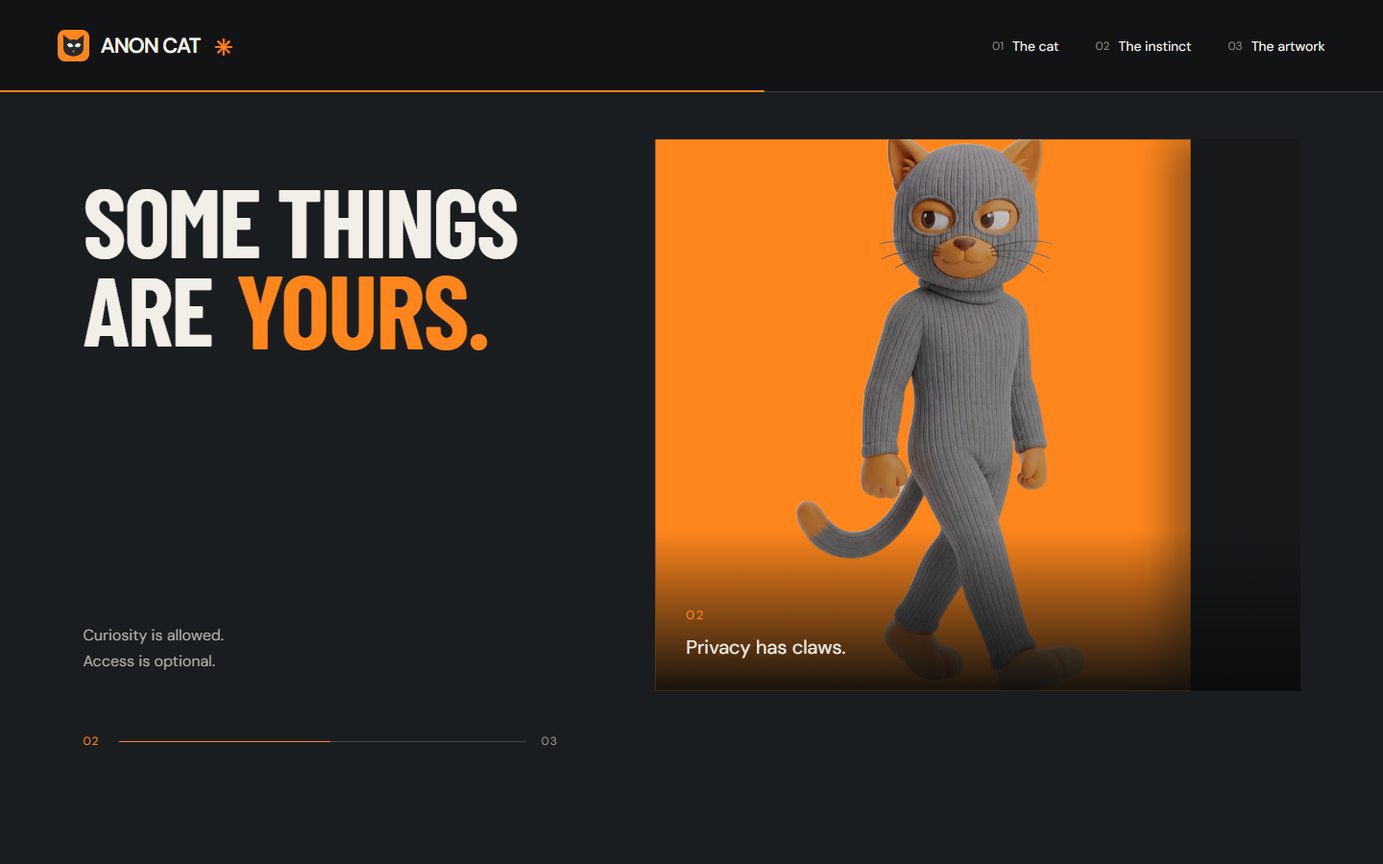
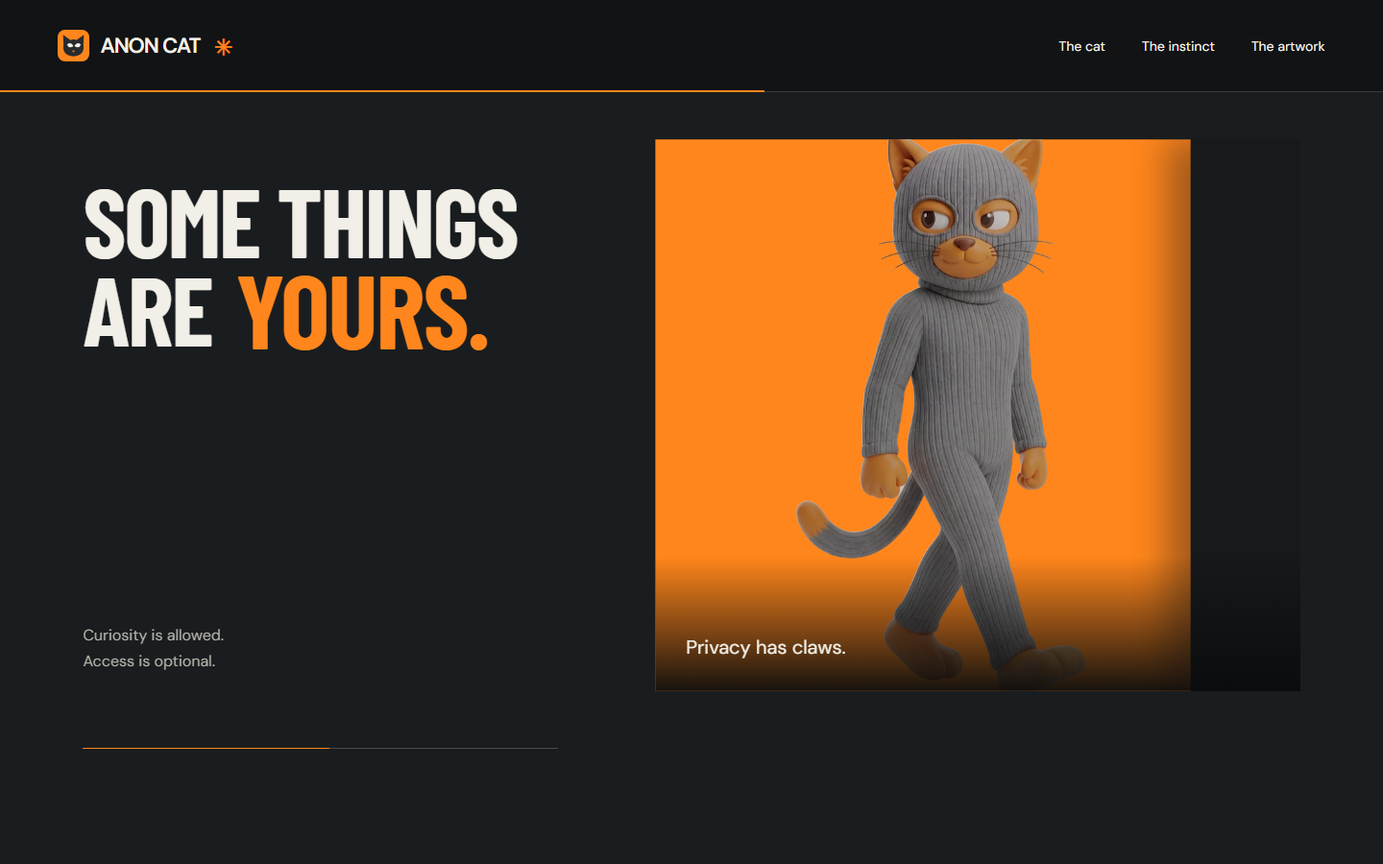
Update Site source

Changed region(s): [[0.4688, 0.6222, 0.6875, 0.7156], [0.6875, 0.6222, 0.875, 0.7156], [0.7188, 0.0311, 0.875, 0.0622]]

diff --git a/src/app/globals.css b/src/app/globals.css
@@ -10,8 +10,8 @@
 .hero-scene .peek-cat{left:47%;top:32%;width:24%;height:36%;z-index:2}
 @media(max-width:700px){.hero-scene .peek-cat{left:48%;top:32%;width:25%;height:35%}}
 .section-top{display:flex;justify-content:space-between;align-items:center;border-bottom:1px solid currentColor;padding-bottom:24px;opacity:.8}.section-top .eyebrow{margin:0;font-size:11px;letter-spacing:1.7px}.tiny-label{font-size:10px;letter-spacing:1.3px}.display-title{font-family:var(--display);font-size:clamp(64px,6.3vw,108px);line-height:.91;letter-spacing:-.02em;font-weight:600;margin:0}.display-title em{font-style:normal;color:var(--orange)}.section-description{font-size:17px;line-height:1.6;color:#676761;margin:24px 0 30px}.file-section{background:var(--paper);color:var(--ink);padding:54px 6% 94px}.file-grid{display:grid;grid-template-columns:1fr 1fr;gap:8%;padding-top:66px;align-items:center}.file-art{position:relative;min-height:660px;display:flex;align-items:flex-end;justify-content:center;isolation:isolate}.file-orange-disc{position:absolute;width:88%;aspect-ratio:1;border-radius:50%;background:var(--orange);z-index:-1;left:3%;top:15%;}.seated-cat{position:relative;width:100%;height:590px;object-fit:contain;object-position:bottom}.file-corner{position:absolute;top:0;left:0;font-size:10px;letter-spacing:1.6px}.art-footnote{position:absolute;bottom:-30px;left:0;font-size:12px;color:#72726b}.character-file{border-top:1px solid #bcbab2;border-bottom:1px solid #bcbab2;margin-bottom:28px}.file-header{padding:17px 0;display:flex;align-items:center;justify-content:space-between;font-size:10px;letter-spacing:1.1px}.file-stamp{border:1px solid #9f9d92;padding:5px 7px;font-size:9px;transform:rotate(-4deg)}dl{margin:0}.file-row{display:grid;grid-template-columns:32% 68%;padding:17px 0;border-top:1px solid #d0cdc4;gap:12px;font-size:14px}.file-row dt{color:#77766d}.file-row dd{margin:0;position:relative;width:max-content;max-width:100%}.file-value{transition:opacity .32s}.redaction-bar{position:absolute;inset:-2px -5px;background:var(--ink);transform-origin:left;transform:scaleX(0);transition:transform .4s cubic-bezier(.2,.8,.2,1)}.is-redacted .redaction-bar{transform:scaleX(1)}.is-redacted .file-value{opacity:0}.file-row:nth-child(2) .redaction-bar{transition-delay:.04s}.file-row:nth-child(3) .redaction-bar{transition-delay:.08s}.file-row:nth-child(4) .redaction-bar{transition-delay:.12s}.file-row:nth-child(5) .redaction-bar{transition-delay:.16s}.file-bottom{display:flex;justify-content:space-between;align-items:center;padding:13px 0;border-top:1px solid #d0cdc4;font-size:9px;letter-spacing:1.2px;color:#75746c}.file-bottom>span:last-child{font-size:22px;color:var(--orange)}.dark-button{background:var(--ink);color:var(--paper);min-height:50px}.dark-button:hover{background:#36383a}
-.ethos-section{padding:55px 6% 92px;background:#1a1d1f}.ethos-section .section-top{color:#9e9f98}.ethos-heading{display:flex;justify-content:space-between;align-items:flex-end;padding:64px 0 50px}.ethos-heading>p{font-size:17px;line-height:1.65;color:#b2b2aa;max-width:270px;margin-bottom:0}.ethos-sequence{display:grid;grid-template-columns:1fr 1fr 1fr;gap:22px;align-items:start}.ethos-frame{margin:0;position:relative;isolation:isolate;height:450px;overflow:hidden;background:#282b2e}.ethos-frame img{width:100%;height:100%;object-fit:cover}.ethos-frame figcaption{position:absolute;z-index:3;bottom:0;left:0;right:0;padding:55px 20px 22px;background:linear-gradient(transparent,rgba(10,12,13,.95));display:flex;flex-direction:column;gap:10px;font-size:15px;line-height:1.4;color:var(--paper)}.ethos-frame figcaption span{color:var(--orange);font-size:11px;letter-spacing:2px}.panel-frame{height:380px;margin-top:65px}.panel-frame img{object-position:50% 50%;filter:brightness(.9)}.silhouette-frame{background:var(--orange);height:445px}.silhouette-frame img{object-fit:contain;object-position:65% 100%;width:120%;max-width:none;filter:brightness(.65)}.silhouette-occluder{position:absolute;inset:0 0 0 60%;background:#17191b;z-index:2;box-shadow:-12px 0 18px #17191b40}.relaxed-frame{height:380px;margin-top:65px}.relaxed-frame img{filter:brightness(.8)}.monero-editorial{border-top:1px solid var(--line);margin-top:66px;padding-top:42px;display:grid;grid-template-columns:1fr 2fr;gap:10%}.monero-editorial .eyebrow{align-self:start;font-size:10px;letter-spacing:1px;line-height:1.6}.monero-editorial>div{max-width:660px}.monero-editorial>div>p:first-child{font-size:26px;line-height:1.3;margin:0 0 22px;letter-spacing:-.6px}.monero-explanation{font-size:15px;line-height:1.75;color:#aeb0a8;margin:0 0 24px}.text-link{font-size:14px;border-bottom:1px solid #74746c;padding:0 0 7px;display:inline-flex;gap:35px;align-items:center}.text-link:hover{color:var(--orange);border-color:var(--orange)}.external-label{font-size:9px;letter-spacing:1.2px;color:#92958d}
-.artwork-section{background:var(--orange);color:var(--ink);padding:54px 6% 78px}.artwork-grid{display:grid;grid-template-columns:1fr 1fr;gap:8%;padding-top:64px;align-items:center}.artwork-copy .display-title{font-size:clamp(60px,5.2vw,100px)}.artwork-copy .display-title>span{color:#713e15}.artwork-copy .section-description{color:#633b1e}.portrait-options{margin:32px 0 30px;max-width:400px;border-bottom:1px solid #aa5c1c}.portrait-options button{display:flex;align-items:center;gap:18px;min-height:57px;padding:12px 0;border:0;border-top:1px solid #aa5c1c;background:transparent;width:100%;text-align:left;font-size:16px;color:var(--ink)}.portrait-options button[aria-pressed=true]{font-weight:600}.portrait-number{font-size:10px;color:#783d14;letter-spacing:1px}.portrait-indicator{margin-left:auto;font-size:13px}.download-button{background:var(--ink);color:var(--paper);gap:40px}.download-button:hover{background:#343638}.download-note{font-size:10px;letter-spacing:1px;color:#693c1b;margin-top:17px}.selected-portrait{margin:0;transform:rotate(2deg)}.portrait-image{border:9px solid var(--paper);box-shadow:15px 20px 0 #743e1525;aspect-ratio:1;overflow:hidden}.portrait-image img{width:100%;height:100%;object-fit:cover}.selected-portrait figcaption{display:flex;justify-content:space-between;gap:20px;padding-top:24px;font-size:10px;letter-spacing:1px}.selected-portrait figcaption>span:last-child{font-size:12px;letter-spacing:0;text-align:right;max-width:205px}.artwork-section button:focus-visible,.artwork-section a:focus-visible{outline-color:var(--ink)}
+.ethos-section{padding:55px 6% 92px;background:#1a1d1f}.ethos-section .section-top{color:#9e9f98}.ethos-heading{display:flex;justify-content:space-between;align-items:flex-end;padding:64px 0 50px}.ethos-heading>p{font-size:17px;line-height:1.65;color:#b2b2aa;max-width:270px;margin-bottom:0}.ethos-sequence{display:grid;grid-template-columns:1fr 1fr 1fr;gap:22px;align-items:start}.ethos-frame{margin:0;position:relative;isolation:isolate;height:450px;overflow:hidden;background:#282b2e}.ethos-frame img{width:100%;height:100%;object-fit:cover}.ethos-frame figcaption{position:absolute;z-index:3;bottom:0;left:0;right:0;padding:55px 20px 22px;background:linear-gradient(transparent,rgba(10,12,13,.95));display:flex;flex-direction:column;gap:10px;font-size:15px;line-height:1.4;color:var(--paper)}.panel-frame{height:380px;margin-top:65px}.panel-frame img{object-position:50% 50%;filter:brightness(.9)}.silhouette-frame{background:var(--orange);height:445px}.silhouette-frame img{object-fit:contain;object-position:65% 100%;width:120%;max-width:none;filter:brightness(.65)}.silhouette-occluder{position:absolute;inset:0 0 0 60%;background:#17191b;z-index:2;box-shadow:-12px 0 18px #17191b40}.relaxed-frame{height:380px;margin-top:65px}.relaxed-frame img{filter:brightness(.8)}.monero-editorial{border-top:1px solid var(--line);margin-top:66px;padding-top:42px;display:grid;grid-template-columns:1fr 2fr;gap:10%}.monero-editorial .eyebrow{align-self:start;font-size:10px;letter-spacing:1px;line-height:1.6}.monero-editorial>div{max-width:660px}.monero-editorial>div>p:first-child{font-size:26px;line-height:1.3;margin:0 0 22px;letter-spacing:-.6px}.monero-explanation{font-size:15px;line-height:1.75;color:#aeb0a8;margin:0 0 24px}.text-link{font-size:14px;border-bottom:1px solid #74746c;padding:0 0 7px;display:inline-flex;gap:35px;align-items:center}.text-link:hover{color:var(--orange);border-color:var(--orange)}.external-label{font-size:9px;letter-spacing:1.2px;color:#92958d}
+.artwork-section{background:var(--orange);color:var(--ink);padding:54px 6% 78px}.artwork-grid{display:grid;grid-template-columns:1fr 1fr;gap:8%;padding-top:64px;align-items:center}.artwork-copy .display-title{font-size:clamp(60px,5.2vw,100px)}.artwork-copy .display-title>span{color:#713e15}.artwork-copy .section-description{color:#633b1e}.portrait-options{margin:32px 0 30px;max-width:400px;border-bottom:1px solid #aa5c1c}.portrait-options button{display:flex;align-items:center;gap:18px;min-height:57px;padding:12px 0;border:0;border-top:1px solid #aa5c1c;background:transparent;width:100%;text-align:left;font-size:16px;color:var(--ink)}.portrait-options button[aria-pressed=true]{font-weight:600}.portrait-indicator{margin-left:auto;font-size:13px}.download-button{background:var(--ink);color:var(--paper);gap:40px}.download-button:hover{background:#343638}.download-note{font-size:10px;letter-spacing:1px;color:#693c1b;margin-top:17px}.selected-portrait{margin:0;transform:rotate(2deg)}.portrait-image{border:9px solid var(--paper);box-shadow:15px 20px 0 #743e1525;aspect-ratio:1;overflow:hidden}.portrait-image img{width:100%;height:100%;object-fit:cover}.selected-portrait figcaption{display:flex;justify-content:space-between;gap:20px;padding-top:24px;font-size:10px;letter-spacing:1px}.selected-portrait figcaption>span:last-child{font-size:12px;letter-spacing:0;text-align:right;max-width:205px}.artwork-section button:focus-visible,.artwork-section a:focus-visible{outline-color:var(--ink)}
 .footer{padding:54px 6% 25px;background:var(--ink);position:relative;overflow:hidden}.footer-top{display:flex;align-items:center;justify-content:space-between;padding-bottom:48px;border-bottom:1px solid var(--line);position:relative;isolation:isolate}.footer-top>p{font-family:var(--display);font-size:72px;line-height:1;margin:0;padding-right:19%;letter-spacing:-.02em}.footer-top>p span{color:var(--orange)}.footer-cat{position:absolute;right:0;bottom:-4px;width:130px;height:155px;object-fit:contain;object-position:bottom;z-index:-1}.footer-bottom{display:flex;justify-content:space-between;align-items:center;padding-top:24px;color:#92948e;font-size:10px;gap:20px}.footer-links{display:flex;gap:25px;color:var(--paper);font-size:12px}.footer-links a:hover{color:var(--orange)}
 @media(min-width:1700px){.file-section,.ethos-section,.artwork-section,.footer{padding-left:8%;padding-right:8%}.file-art{height:780px}.seated-cat{height:720px}.ethos-frame{height:510px}.panel-frame,.relaxed-frame{height:450px}}
 @media(max-width:1000px){.display-title{font-size:64px}.file-grid{gap:5%}.file-art{min-height:510px}.seated-cat{height:480px}.file-row{font-size:12px;grid-template-columns:30% 70%;gap:8px}.ethos-frame{height:340px}.panel-frame,.relaxed-frame{height:290px;margin-top:40px}.ethos-frame figcaption{font-size:13px;padding:50px 13px 18px}.monero-editorial{gap:5%}.artwork-copy .display-title{font-size:56px}.footer-top>p{font-size:55px;padding-right:14%}.footer-cat{width:105px;height:130px}}

diff --git a/src/components/sections/ArtworkPack.tsx b/src/components/sections/ArtworkPack.tsx
@@ -29,9 +29,9 @@ export default function ArtworkPack(){
     const freeze=()=>context?.getTweens().forEach((tween:gsap.core.Tween)=>tween.pause());document.addEventListener('anon-cat:freeze',freeze);
     return()=>{context?.revert();document.removeEventListener('anon-cat:freeze',freeze);};
   },[selected]);
-  return <section ref={root} className="artwork-section" id="artwork" data-selection={portrait.id} aria-labelledby="artwork-heading"><div className="section-top"><span className="eyebrow">03 / THE ARTWORK</span><span className="tiny-label">TAKE THE CAT. LEAVE THE DETAILS.</span></div>
-    <div className="artwork-grid"><div className="artwork-copy"><h2 className="display-title" id="artwork-heading">RECOGNIZABLE.<br/><span>UNIDENTIFIED.</span></h2><p className="section-description">A face you can keep.<br/>A story you don’t get.</p><div className="portrait-options" role="group" aria-label="Choose a cat portrait">{site.portraits.map((p,i)=><button key={p.id} aria-pressed={selected===i} onClick={()=>setSelected(i)}><span className="portrait-number">0{i+1}</span>{p.label}<span className="portrait-indicator" aria-hidden="true">{selected===i?'●':'○'}</span></button>)}</div><a className="button orange-button download-button" href={portrait.src} download={`anon-cat-${portrait.id}.png`}>Download {portrait.label.toLowerCase()}<span aria-hidden="true">↓</span></a><p className="download-note">PNG / 1024 × 1024 / YOURS TO KEEP</p></div>
-      <figure className="selected-portrait"><div className="portrait-stage">{site.portraits.map((p,i)=><div className="portrait-print portrait-image" key={p.id} data-active={i===selected} aria-hidden={i!==selected}><DeferredImage src={p.src.replace('.png','.webp')} alt={i===selected?`ANON CAT ${p.label.toLowerCase()} portrait. ${p.description}`:''} width="1024" height="1024"/></div>)}</div><figcaption><span>{portrait.label.toUpperCase()} / 0{selected+1}</span><span>{portrait.description}</span></figcaption><span className="sr-only" role="status">{portrait.label} portrait selected.</span></figure>
+  return <section ref={root} className="artwork-section" id="artwork" data-selection={portrait.id} aria-labelledby="artwork-heading"><div className="section-top"><span className="eyebrow">THE ARTWORK</span><span className="tiny-label">TAKE THE CAT. LEAVE THE DETAILS.</span></div>
+    <div className="artwork-grid"><div className="artwork-copy"><h2 className="display-title" id="artwork-heading">RECOGNIZABLE.<br/><span>UNIDENTIFIED.</span></h2><p className="section-description">A face you can keep.<br/>A story you don’t get.</p><div className="portrait-options" role="group" aria-label="Choose a cat portrait">{site.portraits.map((p,i)=><button key={p.id} aria-pressed={selected===i} onClick={()=>setSelected(i)}>{p.label}<span className="portrait-indicator" aria-hidden="true">{selected===i?'●':'○'}</span></button>)}</div><a className="button orange-button download-button" href={portrait.src} download={`anon-cat-${portrait.id}.png`}>Download {portrait.label.toLowerCase()}<span aria-hidden="true">↓</span></a><p className="download-note">PNG / 1024 × 1024 / YOURS TO KEEP</p></div>
+      <figure className="selected-portrait"><div className="portrait-stage">{site.portraits.map((p,i)=><div className="portrait-print portrait-image" key={p.id} data-active={i===selected} aria-hidden={i!==selected}><DeferredImage src={p.src.replace('.png','.webp')} alt={i===selected?`ANON CAT ${p.label.toLowerCase()} portrait. ${p.description}`:''} width="1024" height="1024"/></div>)}</div><figcaption><span>{portrait.label.toUpperCase()}</span><span>{portrait.description}</span></figcaption><span className="sr-only" role="status">{portrait.label} portrait selected.</span></figure>
     </div>
   </section>;
 }

diff --git a/src/components/sections/PrivacyEthos.tsx b/src/components/sections/PrivacyEthos.tsx
@@ -2,16 +2,16 @@ import {site} from '@/config/site';
 import DeferredImage from '@/components/DeferredImage';
 import PrivacyStory from '@/components/interactions/PrivacyStory';
 export default function PrivacyEthos(){return <section className="ethos-section" id="ethos" aria-labelledby="ethos-heading">
-  <div className="section-top"><span className="eyebrow">02 / THE INSTINCT</span><span className="tiny-label">ACCESS IS OPTIONAL</span></div>
+  <div className="section-top"><span className="eyebrow">THE INSTINCT</span><span className="tiny-label">ACCESS IS OPTIONAL</span></div>
   <PrivacyStory>
   <div className="ethos-heading"><h2 className="display-title" id="ethos-heading">SOME THINGS<br/>ARE <em>YOURS.</em></h2><p>Curiosity is allowed.<br/>Access is optional.</p></div>
   <div className="ethos-sequence">
-    <figure className="ethos-frame panel-frame"><DeferredImage src="/assets/portraits/peek.webp" width="1024" height="1024" alt="The cat watches from behind a dark panel."/><figcaption><span>01</span>Not every detail needs an audience.</figcaption></figure>
-    <figure className="ethos-frame silhouette-frame"><DeferredImage src="/assets/character/step-cat.webp" width="800" height="1300" alt="The cat is only partly visible in a narrow opening."/><div className="silhouette-occluder" aria-hidden="true"/><figcaption><span>02</span>Privacy has claws.</figcaption></figure>
-    <figure className="ethos-frame relaxed-frame"><DeferredImage src="/assets/portraits/relaxed.webp" width="1024" height="1024" alt="The disguised cat relaxes in its own warm, quiet space."/><figcaption><span>03</span>Make yourself unavailable.</figcaption></figure>
+    <figure className="ethos-frame panel-frame"><DeferredImage src="/assets/portraits/peek.webp" width="1024" height="1024" alt="The cat watches from behind a dark panel."/><figcaption>Not every detail needs an audience.</figcaption></figure>
+    <figure className="ethos-frame silhouette-frame"><DeferredImage src="/assets/character/step-cat.webp" width="800" height="1300" alt="The cat is only partly visible in a narrow opening."/><div className="silhouette-occluder" aria-hidden="true"/><figcaption>Privacy has claws.</figcaption></figure>
+    <figure className="ethos-frame relaxed-frame"><DeferredImage src="/assets/portraits/relaxed.webp" width="1024" height="1024" alt="The disguised cat relaxes in its own warm, quiet space."/><figcaption>Make yourself unavailable.</figcaption></figure>
   </div>
   <div className="privacy-shutters" aria-hidden="true"><span/><span/><span/></div>
-  <div className="story-progress" aria-hidden="true"><span className="story-current">01</span><span className="story-progress-track"><i/></span><span>03</span></div>
+  <div className="story-progress" aria-hidden="true"><span className="story-progress-track"><i/></span></div>
   </PrivacyStory>
   <div className="monero-editorial"><p className="eyebrow"><span className="orange-rule"/> THE MONERO CONNECTION</p><div><p>Privacy is an instinct here.<br/>In Monero, it’s part of the design.</p><p className="monero-explanation">Monero is a cryptocurrency focused on private transactions. Its privacy technologies conceal the sender, recipient, and amount. This independent character project takes inspiration from that ethos.</p><a className="text-link" href={site.moneroUrl} target="_blank" rel="noopener noreferrer">Explore Monero <span className="external-label">OFFICIAL SITE</span></a></div></div>
 </section>;}

diff --git a/tests/privacy-story.spec.ts b/tests/privacy-story.spec.ts
@@ -19,7 +19,7 @@ test('desktop story restores three full scenes, shutters, progress and reverse s
   const bounds=await openStory(page);
   for(const [progress,chapter,selector]of [[.08,'01','.panel-frame'],[.52,'02','.silhouette-frame'],[.94,'03','.relaxed-frame']]as const){
     await seek(page,bounds,progress);
-    await expect(page.locator('.story-current')).toHaveText(chapter);
+    await expect(page.locator('.ethos-cinema')).toHaveAttribute('data-story-chapter',chapter);
     expect(await page.locator(selector).evaluate(el=>getComputedStyle(el).clipPath)).not.toMatch(/100%/);
     const position=await page.locator('.ethos-cinema').evaluate(el=>el.getBoundingClientRect().top);
     expect(Math.abs(position-54)).toBeLessThan(2);
@@ -28,10 +28,10 @@ test('desktop story restores three full scenes, shutters, progress and reverse s
   await seek(page,bounds,.31);
   expect(await page.locator('.privacy-shutters span').evaluateAll(nodes=>nodes.some(el=>{const box=el.getBoundingClientRect();const stage=el.parentElement!.getBoundingClientRect();return box.left<stage.right&&box.right>stage.left;}))).toBe(true);
   await seek(page,bounds,.08);
-  await expect(page.locator('.story-current')).toHaveText('01');
+  await expect(page.locator('.ethos-cinema')).toHaveAttribute('data-story-chapter','01');
   expect(await page.locator('.silhouette-frame').evaluate(el=>getComputedStyle(el).clipPath)).toMatch(/100%/);
   await page.getByRole('link',{name:'The artwork',exact:true}).click();
-  await expect(page.getByRole('button',{name:'02 Peek',exact:true})).toBeInViewport();
+  await expect(page.getByRole('button',{name:'Peek',exact:true})).toBeInViewport();
 });
 
 test('responsive story removes desktop pinning and restores it without duplicates',async({page})=>{
@@ -47,7 +47,7 @@ test('responsive story removes desktop pinning and restores it without duplicate
   await expect(page.locator('.ethos-cinema')).toHaveClass(/is-cinematic/);
 });
 
-for(const height of [600,700])test(`story and its chapter progress fit a ${height}px desktop viewport`,async({page})=>{
+for(const height of [600,700])test(`story and its visual progress fit a ${height}px desktop viewport`,async({page})=>{
   await page.setViewportSize({width:1280,height});await page.goto('/');const bounds=await openStory(page);await seek(page,bounds,.52);
   const layout=await page.locator('.story-progress').evaluate(el=>({bottom:el.getBoundingClientRect().bottom,overflow:document.documentElement.scrollWidth>innerWidth}));
   expect(layout.bottom).toBeLessThanOrEqual(height);expect(layout.overflow).toBe(false);
@@ -56,8 +56,8 @@ for(const height of [600,700])test(`story and its chapter progress fit a ${heigh
 test('direct artwork navigation stays reachable while story initializes',async({page})=>{
   await page.setViewportSize({width:1440,height:900});await page.goto('/#artwork');
   await expect(page.locator('.ethos-cinema')).toHaveAttribute('data-story-ready','true');
-  await expect(page.getByRole('button',{name:'02 Peek',exact:true})).toBeInViewport();
-  await page.getByRole('button',{name:'02 Peek',exact:true}).click();
+  await expect(page.getByRole('button',{name:'Peek',exact:true})).toBeInViewport();
+  await page.getByRole('button',{name:'Peek',exact:true}).click();
   await expect(page.locator('#artwork')).toHaveAttribute('data-selection','peek');
   expect(await page.locator('body').innerText()).not.toContain('<img');
 });

diff --git a/src/app/motion.css b/src/app/motion.css
@@ -24,12 +24,12 @@ html[data-motion=on] .scene-front{animation:foreground-arrive .55s cubic-bezier(
 .is-cinematic .ethos-frame img{object-fit:cover;object-position:center}
 .is-cinematic .silhouette-frame img{object-fit:contain;width:100%;max-width:none;object-position:50% 100%;filter:brightness(.8)}
 .is-cinematic .silhouette-occluder{left:66%;box-shadow:-25px 0 35px #17191b66}
-.is-cinematic .ethos-frame figcaption{padding:80px 32px 32px;font-size:20px;line-height:1.4}.is-cinematic .ethos-frame figcaption span{font-size:13px}
+.is-cinematic .ethos-frame figcaption{padding:80px 32px 32px;font-size:20px;line-height:1.4}
 .is-cinematic .privacy-shutters{display:block;position:absolute;right:0;top:12%;width:53%;height:76%;overflow:hidden;z-index:5;pointer-events:none}
 .privacy-shutters span{position:absolute;left:0;width:36%;height:34%;background:#282b2e;border-top:1px solid #46494b;transform:translateX(330%)}
 .privacy-shutters span:nth-child(1){top:0}.privacy-shutters span:nth-child(2){top:33%}.privacy-shutters span:nth-child(3){top:66%}
 .is-cinematic .story-progress{position:absolute;left:0;bottom:4%;display:flex;align-items:center;gap:16px;width:39%;font-size:12px;color:#92948e;letter-spacing:1px}
-.story-current{color:var(--orange);min-width:22px}.story-progress-track{height:1px;flex:1;background:#4a4c49;position:relative}.story-progress-track i{position:absolute;inset:0;background:var(--orange);transform:scaleX(0);transform-origin:left}
+.story-progress-track{height:1px;flex:1;background:#4a4c49;position:relative}.story-progress-track i{position:absolute;inset:0;background:var(--orange);transform:scaleX(0);transform-origin:left}
 .file-grid,.artwork-grid{grid-template-columns:repeat(2,minmax(0,1fr))}
 .file-art,.file-copy,.artwork-copy,.selected-portrait{min-width:0}
 .selected-portrait{transform:none;perspective:1400px}.portrait-stage{position:relative;aspect-ratio:1;perspective:1200px;isolation:isolate}

diff --git a/src/components/sections/CharacterFile.tsx b/src/components/sections/CharacterFile.tsx
@@ -5,7 +5,7 @@ import DeferredImage from '@/components/DeferredImage';
 export default function CharacterFile(){
   const [redacted,setRedacted]=useState(false);
   return <section className="file-section" id="file" aria-labelledby="file-heading">
-    <div className="section-top"><span className="eyebrow">01 / THE CAT</span><span className="tiny-label">NOTHING TO DECLARE</span></div>
+    <div className="section-top"><span className="eyebrow">THE CAT</span><span className="tiny-label">NOTHING TO DECLARE</span></div>
     <div className="file-grid">
       <div className="file-art"><span className="file-corner">IDENTITY: OPTIONAL</span><div className="file-orange-disc" aria-hidden="true"/><DeferredImage className="file-plinth" src="/assets/environments/file-plinth.webp" alt="" aria-hidden="true" width="900" height="600"/><DeferredImage className="seated-cat" src={site.assets.seated} alt="The orange cat in its ribbed gray disguise, sitting comfortably with a knowing expression." width="1000" height="1200"/><span className="art-footnote">Seen here. Knows you saw.</span></div>
       <div className="file-copy"><h2 id="file-heading" className="display-title">A VERY PRIVATE<br/>INDIVIDUAL.</h2><p className="section-description">Happy to be here.<br/>Less happy to elaborate.</p>

diff --git a/tests/movement.spec.ts b/tests/movement.spec.ts
@@ -44,7 +44,7 @@ test('camera, redaction and portrait controls produce actual motion after reload
   await expect.poll(()=>bar.evaluate(el=>new DOMMatrixReadOnly(getComputedStyle(el).transform).a),{intervals:[20]}).toBeGreaterThan(.05);
   await expect.poll(()=>bar.evaluate(el=>new DOMMatrixReadOnly(getComputedStyle(el).transform).a)).toBe(1);
   await page.locator('#artwork').scrollIntoViewIfNeeded();
-  await page.getByRole('button',{name:'02 Peek',exact:true}).click();
+  await page.getByRole('button',{name:'Peek',exact:true}).click();
   await expect.poll(()=>page.locator('.portrait-print[data-active=true]').evaluate(el=>Math.abs(new DOMMatrixReadOnly(getComputedStyle(el).transform).m13)),{intervals:[20]}).toBeGreaterThan(.01);
   await expect.poll(()=>page.locator('.portrait-print[data-active=true]').evaluate(el=>Math.abs(new DOMMatrixReadOnly(getComputedStyle(el).transform).m13))).toBeLessThan(.001);
 });

diff --git a/tests/cinema.spec.ts b/tests/cinema.spec.ts
@@ -83,7 +83,7 @@ test('restored cinema keeps navigation to artwork immediate',async({page})=>{
   await expect(page.locator('.ethos-cinema')).toHaveClass(/is-cinematic/);
   await expect(page.locator('.pin-spacer')).toHaveCount(1);
   await page.getByRole('link',{name:'The artwork',exact:true}).click();await expect(page).toHaveURL(/#artwork$/);
-  await expect(page.getByRole('button',{name:'02 Peek',exact:true})).toBeVisible();
+  await expect(page.getByRole('button',{name:'Peek',exact:true})).toBeVisible();
 });
 
 test('an obsolete saved off value cannot stop animation after removing the switch',async({page})=>{

diff --git a/src/components/interactions/PrivacyStory.tsx b/src/components/interactions/PrivacyStory.tsx
@@ -35,7 +35,6 @@ export default function PrivacyStory({children}:{children:ReactNode}){
               el.dataset.storyProgress=self.progress.toFixed(3);
               const chapter=self.progress<.35?'01':self.progress<.7?'02':'03';
               el.dataset.storyChapter=chapter;
-              const label=el.querySelector('.story-current');if(label)label.textContent=chapter;
             }}});
             gsap.set('.silhouette-frame,.relaxed-frame',{clipPath:'inset(0 0 0 100%)'});
             gsap.set('.privacy-shutters span',{x:0,xPercent:330});

diff --git a/docs/test-results.md b/docs/test-results.md
@@ -2,11 +2,13 @@
 
 The static export after restoring the privacy cinema passed `npm run build` (including strict TypeScript), lint, and all 35 Playwright Chromium checks.
 
+After removing decorative section, scene, progress and portrait numbering, the production build, strict TypeScript, lint and 10 relevant existing browser checks passed. These cover scene transitions and reverse scrolling, pin cleanup on resize, short desktop viewports, direct artwork navigation, mobile layout, portrait selection/download and actual motion. The unnumbered progress line and animation timelines remain active. The refreshed story screenshots show the current labels.
+
 The first-page recheck adds visible-pose assertions after manual return, scroll re-entry, and a delayed poster failure after hydration. It also verifies animation stays enabled without a switch, including with an obsolete saved off value or reduced-motion preference, survives reload, and emits no raw noscript image markup with JavaScript enabled. The previous autoplay cancellation and fallback failure are fixed; repeat rest is now 2.5 seconds.
 
 The subsequent whole-page repair removes the noscript image branch and custom deferred-source visibility path entirely. Native image sources work without JavaScript. New movement tests verify file artwork waits for delayed image loads, replays on re-entry, all three privacy scenes translate and scale visibly, and camera tilt, CSS redaction and 3D portrait selection actually move after reload. `file-native-desktop.png` shows the clean seated-cat section.
 
-The restored desktop privacy story is checked at all three scene positions, during a shutter wipe, and in reverse. Tests cover pin placement, chapter labels, scene masks, viewport resize without duplicate spacers, compact scroll motion, 600/700px desktop heights and direct artwork navigation after late story initialization. The motion switch remains absent; hero/loading fixes are retained. `restored-story-01.png`, `restored-story-02.png` and `restored-story-03.png` show the large restored scenes.
+The restored desktop privacy story is checked at all three scene positions, during a shutter wipe, and in reverse. Tests cover pin placement, scene state, scene masks, viewport resize without duplicate spacers, compact scroll motion, 600/700px desktop heights and direct artwork navigation after late story initialization. The motion switch remains absent; hero/loading fixes are retained. `restored-story-01.png`, `restored-story-02.png` and `restored-story-03.png` show the large restored scenes.
 
 Coverage also includes automatic first-screen performance and interruption; sub-second manual hide/return; CTA/caption separation at five widths; mobile scene/copy separation; no horizontal overflow; navigation past the privacy pin; ignored legacy off settings and absence of the switch; rapid hero clicks and portrait changes; fictional redaction; three actual PNG downloads; keyboard navigation; WebP failure recovery; poster-first requests; and artwork without JavaScript.
 

diff --git a/docs/motion-spec.md b/docs/motion-spec.md
@@ -18,7 +18,7 @@ The decorative performance and manual state are separate. A manual action cancel
 
 ## Rest of the document
 
-The original privacy cinema is restored on desktop at 1001px and above. Its 84svh stage pins at 6% of the viewport for 175vh of scroll travel, with direct progress and no scrub inertia. Peek transitions through three charcoal shutters into Walking on orange, then another wipe reveals Relaxed. The title enlarges and chapter/progress indicators advance. The stage fits short desktop viewports. Compact screens use three stacked scenes with reversible scroll masks and image depth, without pinning.
+The original privacy cinema is restored on desktop at 1001px and above. Its 84svh stage pins at 6% of the viewport for 175vh of scroll travel, with direct progress and no scrub inertia. Peek transitions through three charcoal shutters into Walking on orange, then another wipe reveals Relaxed. The title enlarges and the unnumbered progress line advances. The stage fits short desktop viewports. Compact screens use three stacked scenes with reversible scroll masks and image depth, without pinning.
 
 ScrollTrigger is imported only within 800px of this section; its three images are then warmed to avoid empty masked scenes. Setup refreshes after font readiness. Late pin creation preserves the following viewport, and direct artwork hashes are realigned unless the visitor has started scrolling. MatchMedia removes pinning and desktop transforms on resize. Other sections keep brief repeatable entrances and native flow: the file rises 60px with a small rotation/disc expansion. Portrait selection and its PNG download update immediately, followed by a 380ms print throw. Redaction finishes within 260ms. Ordinary image markup and a three-card fallback remain available without scripts.
 
@@ -27,7 +27,7 @@ ScrollTrigger is imported only within 800px of this section; its three images ar
 - CSS owns architectural arrival on `scene-camera`/foreground; these never share transforms with pointer or character motion.
 - The hero GSAP context owns poses, glance, breathing, travel and the short scene action.
 - Page GSAP owns pointer tilt on `scene-pointer` and repeatable below-fold reveals.
-- PrivacyStory owns privacy frames, images, occluder, shutters, heading and chapter track; PageMotion excludes those targets.
+- PrivacyStory owns privacy frames, images, occluder, shutters, heading and progress track; PageMotion excludes those targets.
 - Artwork GSAP owns print transforms inside its stage.
 
 The high-priority poster is 120,226 bytes on desktop or 73,296 bytes on mobile. Hidden poses load after its decode. Below-fold artwork uses ordinary images with native lazy loading, low fetch priority and asynchronous decode; it works without hydration. No noscript image text or custom deferred-source visibility rule exists. Original transparent PNGs remain available for source and error recovery. Browser-only performance marks measure readiness; there is no reporting endpoint.

diff --git a/README.md b/README.md
@@ -28,7 +28,7 @@ npm run test:e2e
 
 All content and controls are HTML. Animations are enabled throughout, with no motion switch or stored off preference. No autoplay audio, scroll hijacking, fake loader, wallet request, tracking, or runtime third-party font/media request.
 
-The hero keeps its 600ms architectural arrival, automatic hide/peek/return, 180ms pointer response and fixed text/CTA. Manual hide/peek finishes in 720ms and return in 560ms. The original privacy cinema is restored on desktop: a large image stage beside the heading moves through Peek, Walking and Relaxed scenes with shutter wipes and chapter progress over 175vh of scrolling. Scroll progress responds immediately without scrub lag. Compact screens retain three stacked scenes with scroll-driven mask reveals. Portrait changes settle in 380ms. The sticky header keeps navigation available; animations remain enabled. `PrivacyStory.tsx` owns only the privacy stage and loads its ScrollTrigger code near that section; PageMotion and other components retain their own transforms.
+The hero keeps its 600ms architectural arrival, automatic hide/peek/return, 180ms pointer response and fixed text/CTA. Manual hide/peek finishes in 720ms and return in 560ms. The original privacy cinema is restored on desktop: a large image stage beside the heading moves through Peek, Walking and Relaxed scenes with shutter wipes and an unnumbered progress line over 175vh of scrolling. Scroll progress responds immediately without scrub lag. Compact screens retain three stacked scenes with scroll-driven mask reveals. Portrait changes settle in 380ms. The sticky header keeps navigation available; animations remain enabled. `PrivacyStory.tsx` owns only the privacy stage and loads its ScrollTrigger code near that section; PageMotion and other components retain their own transforms.
 
 Automatic character motion repeats with a 2.5-second rest, resumes after Come back, and replays on returning to the hero or browser tab. PNG poster recovery can animate. The motion switch and saved preference were removed at the user’s request; animation stays enabled after reload.
 
